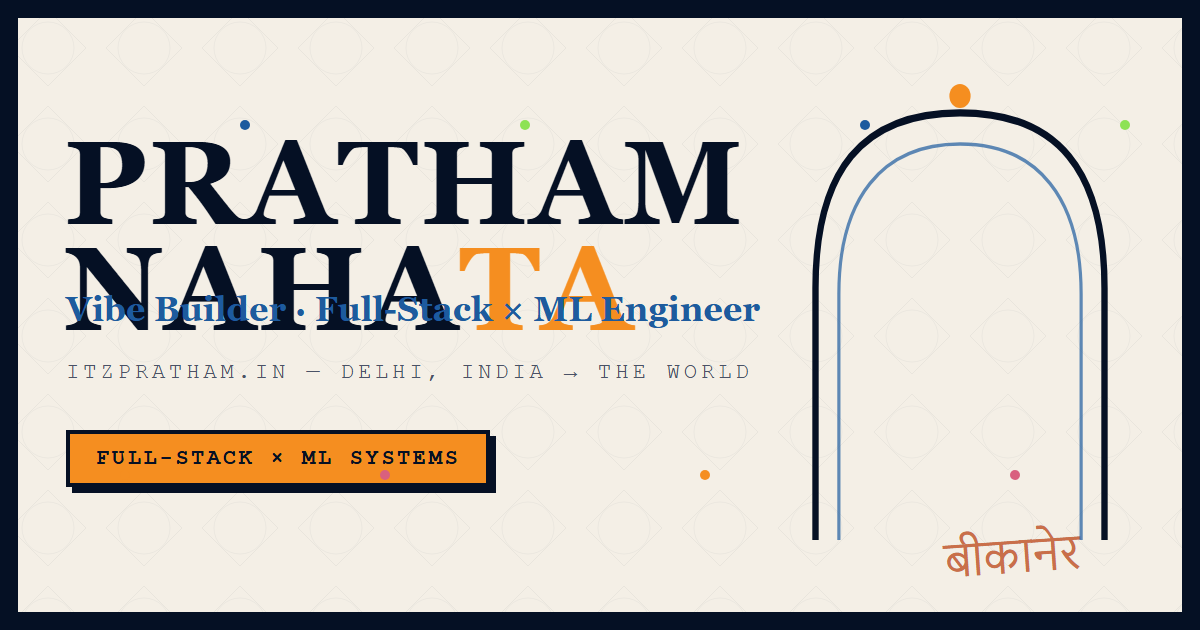
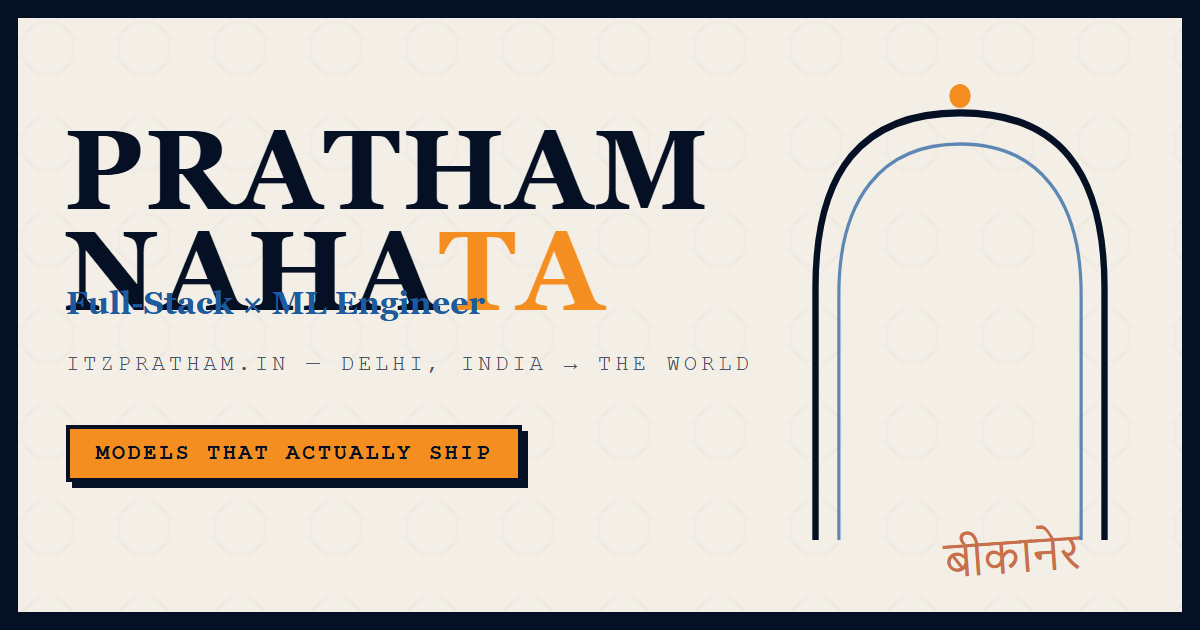
feat(wave12): strategic repositioning per critique — engineering-first identity (drop Vibe Builder), narrative case structure (problem/approach/hard part/shipped), THE RECEIPTS evidence band, contextualized stats (achievement headline + scale), home capability band, og-image regenerated, vibe-langua

diff --git a/src/data/profile.ts b/src/data/profile.ts
@@ -1,4 +1,4 @@
-export type Stat = { value: number; prefix?: string; suffix?: string; label: string };
+export type Stat = { value: number; prefix?: string; suffix?: string; label: string; headline?: string };
 export type StackGroup = { name: string; pills: string[]; wide?: boolean; note?: string };
 
 export const profile: {
@@ -54,13 +54,14 @@ export const profile: {
     linkedin: "https://linkedin.com/in/iamprathamnahata",
     email: "mailto:iam1nahata@gmail.com",
   },
-  rota: ["Vibe Builder", "Full-Stack Engineer", "ML Systems Builder", "Product Designer"],
+  rota: ["Full-Stack × ML Engineer", "Inference Systems Builder", "Product Engineer", "Systems Builder"],
   deck:
-    "CS undergrad building full-stack + ML systems — real-time inference, graph neural networks, multi-agent AI. Interfaces that feel alive, models that actually ship.",
+    "CS undergrad building full-stack + ML systems — real-time inference, graph neural networks, multi-agent AI. Models that actually ship.",
   stats: [
-    { value: 492960, suffix: "+", label: "SIH 2024 grand finalist" },
-    { prefix: "TOP ", value: 5, label: "AlgoQuest · 300+ teams" },
-    { prefix: "<", value: 20, suffix: "ms", label: "browser ML inference" },
+    { value: 492960, suffix: "+", label: "SIH 2024 participants — national scale", headline: "GRAND FINALIST" },
+    { prefix: "TOP ", value: 5, label: "AlgoQuest · 300+ teams", headline: "TOP 5" },
+    { prefix: "<", value: 20, suffix: "ms", label: "browser ML inference — measured", headline: "<20MS" },
+    { value: 4, label: "production-shaped systems with receipts", headline: "4 SHIPPED" },
   ],
   facts: [
     { key: "FROM", value: "Delhi, India" },
@@ -77,34 +78,34 @@ export const profile: {
     },
   ],
   cards: [
-    { label: "01 / FEEL", title: "Vibe", body: "Does it feel right? Motion, tone, personality — the stuff people remember after they close the tab." },
+    { label: "01 / FEEL", title: "Feel", body: "Does it feel right? Motion, tone, personality — the stuff people remember after they close the tab." },
     { label: "02 / THINK", title: "Clarity", body: "Can a stranger understand it in 5 seconds? Hierarchy, plain words, zero guesswork." },
     { label: "03 / BUILD", title: "Craft", body: "Is it built right? Accessible, fast, reproducible — the invisible stuff that makes work last." },
   ],
   process: {
     title: "pratham@nahata — bash — 80×24",
     lines: [
-      { kind: "comment", text: "# shipping vibe-first systems since 2023" },
+      { kind: "comment", text: "# shipping production systems since 2023" },
       { kind: "cmd", text: "pratham --plan --stack fastapi nextjs pytorch", cursor: true },
       { kind: "step", num: "01 · DISCOVER", text: "unpack the problem — talk to real humans, find the actual pain" },
-      { kind: "step", num: "02 · DESIGN", text: "sketch the vibe — moodboards, type, motion language, lo-fi prototypes" },
-      { kind: "step", num: "03 · BUILD", text: "ship fast — semantic HTML, design tokens, motion done right" },
-      { kind: "step", num: "04 · POLISH", text: "measure & refine — micro-interactions, a11y, perf, make it feel expensive" },
-      { kind: "ok", text: "✓ done in 2 weeks, not 2 months — you keep the source, I keep the vibes" },
+      { kind: "step", num: "02 · DESIGN", text: "sketch the product — type, motion language, lo-fi prototypes" },
+      { kind: "step", num: "03 · BUILD", text: "ship fast — semantic HTML, design tokens, CI green" },
+      { kind: "step", num: "04 · POLISH", text: "measure & refine — micro-interactions, a11y, perf, make it hold up in production" },
+      { kind: "ok", text: "✓ done in 2 weeks, not 2 months — you keep the source, I keep shipping" },
     ],
     steps: [
       { num: "01", title: "DISCOVER", sub: "talk to real humans · find the pain", cmd: "pratham --plan", out: "unpack the problem — real users, real constraints, the actual pain underneath the ask", artifacts: ["USER INTERVIEWS", "PAIN MAP", "ONE-PAGE BRIEF"] },
-      { num: "02", title: "DESIGN", sub: "moodboards · type · motion language", cmd: "pratham --design", out: "sketch the vibe — moodboards, type scale, motion language, lo-fi prototypes you can click", artifacts: ["MOODBOARDS", "DESIGN TOKENS", "LO-FI PROTOTYPE"] },
+      { num: "02", title: "DESIGN", sub: "type · motion language · lo-fi", cmd: "pratham --design", out: "sketch the product — type scale, motion language, lo-fi prototypes you can click", artifacts: ["MOODBOARDS", "DESIGN TOKENS", "LO-FI PROTOTYPE"] },
       { num: "03", title: "BUILD", sub: "semantic HTML · tokens · fast", cmd: "pratham --build", out: "ship fast — semantic markup, tokens not chaos, CI-green, preview links every day", artifacts: ["COMPONENT LIBRARY", "CI GREEN", "DAILY PREVIEWS"] },
-      { num: "04", title: "POLISH", sub: "a11y · perf · feel expensive", cmd: "pratham --polish", out: "measure & refine — a11y pass, perf budget, micro-interactions until it feels expensive", artifacts: ["A11Y PASS", "PERF BUDGET", "SHIP LOG"] },
+      { num: "04", title: "POLISH", sub: "a11y · perf · production-ready", cmd: "pratham --polish", out: "measure & refine — a11y pass, perf budget, load tests until it holds up in production", artifacts: ["A11Y PASS", "PERF BUDGET", "SHIP LOG"] },
     ],
     stats: [
       { value: "4", label: "PHASES" },
       { value: "2WK", label: "AVG LOOP" },
       { value: "AA", label: "CONTRAST" },
-      { value: "100%", label: "VIBES" },
+      { value: "100%", label: "SHIPPED" },
     ],
-    tools: ["STACK — FastAPI · Next.js · PyTorch · ONNX · Supabase · Docker", "VIBES — motion-first · tokens · a11y · perf budgets"],
+    tools: ["STACK — FastAPI · Next.js · PyTorch · ONNX · Supabase · Docker", "CRAFT — motion-first · tokens · a11y · perf budgets"],
   },
   background: [
     { years: "2023—27", role: "B.Tech, Computer Science", co: "@ BVCOE Delhi", desc: "Systems, ML and the parts of engineering that ship. Where most of the 3am project ideas started.", tags: "DATA STRUCTURES · ML · SYSTEMS", status: "UNDERGRAD" },
@@ -196,6 +197,8 @@ export type CaseStudy = {
   blurb: string;
   challenge: string;
   build: string;
+  hard: string;
+  shipped: string;
   impact: string[];
   stack: string[];
   href: string;
@@ -208,7 +211,10 @@ export type CaseStudy = {
 };
 
 export const caseStudies: CaseStudy[] = [
-  { slug: "mindpulse-pro", index: "01", year: "2026", title: "MIND PULSE PRO", role: "Founder · Full-stack × ML", blurb: "Real-time behavioral stress detection that runs the model in the browser.", challenge: "Stress is invisible until it isn't. Mental-health tools rely on self-reporting, which people game or skip. I wanted a system that reads stress from how you already work — keystrokes and mouse dynamics — without a single wearable.", build: "Captured keystroke/mouse signals via pynput, extracted 50+ temporal features, trained XGBoost, exported to ONNX and ran inference directly in the browser with onnxruntime-web — no server round-trip. Wrapped in a Next.js web app plus a Tauri (Rust) desktop client, JWT + Google OAuth, SHAP explainability, fully offline LLM coaching via WebLLM.", impact: ["Under 20ms inference — zero server round-trip", "50+ temporal features per typing session", "SHAP explainability for every prediction", "Fully offline coaching — no API keys exposed"], stack: ["FastAPI", "Next.js", "XGBoost", "ONNX Runtime", "Tauri", "Supabase", "WebSockets", "WebLLM"], href: "https://github.com/iAMv1/mindpulse", art: "/assets/art-mindpulse.jpg", accent: "#8DE254", metrics: "20MS INFERENCE · 50+ FEATURES · TAURI DESKTOP",
+  { slug: "mindpulse-pro", index: "01", year: "2026", title: "MIND PULSE PRO", role: "Founder · Full-stack × ML", blurb: "Real-time behavioral stress detection that runs the model in the browser.", challenge: "Stress is invisible until it isn't. Mental-health tools rely on self-reporting, which people game or skip. I wanted a system that reads stress from how you already work — keystrokes and mouse dynamics — without a single wearable.", build: "Captured keystroke/mouse signals via pynput, extracted 50+ temporal features, trained XGBoost, exported to ONNX and ran inference directly in the browser with onnxruntime-web — no server round-trip. Wrapped in a Next.js web app plus a Tauri (Rust) desktop client, JWT + Google OAuth, SHAP explainability, fully offline LLM coaching via WebLLM.",
+    hard: "Getting inference under 20ms in the browser while keeping every prediction explainable - the model had to be small enough for the client, sharp enough to trust, and auditable end to end.",
+    shipped: "Browser inference with zero server round-trip, plus a Tauri desktop client and fully offline WebLLM coaching - the whole ML stack runs on the user's machine.",
+    impact: ["Under 20ms inference — zero server round-trip", "50+ temporal features per typing session", "SHAP explainability for every prediction", "Fully offline coaching — no API keys exposed"], stack: ["FastAPI", "Next.js", "XGBoost", "ONNX Runtime", "Tauri", "Supabase", "WebSockets", "WebLLM"], href: "https://github.com/iAMv1/mindpulse", art: "/assets/art-mindpulse.jpg", accent: "#8DE254", metrics: "20MS INFERENCE · 50+ FEATURES · TAURI DESKTOP",
     dive: [
       { q: "Why FastAPI + WebSockets?", a: "Stress scoring is realtime by nature — polling added ~900ms staleness. WebSockets pushed updates under 50ms, and FastAPI kept the whole backend in one typed codebase." },
       { q: "Why XGBoost instead of deep learning?", a: "We extract 50+ tabular features from keystroke/mouse dynamics. XGBoost matched the accuracy of a small NN at a tenth of the latency, and ONNX made it run in the browser." },
@@ -216,7 +222,10 @@ export const caseStudies: CaseStudy[] = [
       { q: "What would I do now?", a: "Distill to a smaller model, run federated feature extraction, and validate thresholds with a proper user study instead of my own typing." },
     ],
     live: "" },
-  { slug: "unified-dta", index: "02", year: "2025", title: "UNIFIED-DTA", role: "ML Researcher · Builder", blurb: "Drug-target affinity prediction fusing protein language models with graph networks.", challenge: "Predicting how well a drug binds a target protein is a core bottleneck in discovery. Sequence-only models miss molecular structure; structure-only models miss protein context. The field needed both, jointly.", build: "Fused Meta's ESM-2 protein language model with Graph Isomorphism Networks for joint molecular + protein representation learning. Trained on BindingDB, DAVIS and KIBA with concordance index and MSE. Containerized inference with Docker + FastAPI (LRU-cached), extended with a drug-generation module using the DoubleSG architecture.", impact: ["3 industry benchmarks: BindingDB · DAVIS · KIBA", "ESM-2 + GIN joint representation learning", "Dockerized, LRU-cached inference API", "Novel-compound generation via DoubleSG"], stack: ["PyTorch", "ESM-2", "GNN", "FastAPI", "RDKit", "Docker"], href: "https://github.com/iAMv1/unified-dta-project", art: "/assets/art-dta.jpg", accent: "#1D5B9E", metrics: "3 BENCHMARKS · ESM-2 + GIN · DOCKER",
+  { slug: "unified-dta", index: "02", year: "2025", title: "UNIFIED-DTA", role: "ML Researcher · Builder", blurb: "Drug-target affinity prediction fusing protein language models with graph networks.", challenge: "Predicting how well a drug binds a target protein is a core bottleneck in discovery. Sequence-only models miss molecular structure; structure-only models miss protein context. The field needed both, jointly.", build: "Fused Meta's ESM-2 protein language model with Graph Isomorphism Networks for joint molecular + protein representation learning. Trained on BindingDB, DAVIS and KIBA with concordance index and MSE. Containerized inference with Docker + FastAPI (LRU-cached), extended with a drug-generation module using the DoubleSG architecture.",
+    hard: "Fusing two very different representations - protein language embeddings and molecular graphs - without one drowning the other, then keeping training stable across mixed dtypes.",
+    shipped: "A Dockerized, LRU-cached inference API over three community-trusted benchmarks, plus a novel-compound generation module - reproducible end to end.",
+    impact: ["3 industry benchmarks: BindingDB · DAVIS · KIBA", "ESM-2 + GIN joint representation learning", "Dockerized, LRU-cached inference API", "Novel-compound generation via DoubleSG"], stack: ["PyTorch", "ESM-2", "GNN", "FastAPI", "RDKit", "Docker"], href: "https://github.com/iAMv1/unified-dta-project", art: "/assets/art-dta.jpg", accent: "#1D5B9E", metrics: "3 BENCHMARKS · ESM-2 + GIN · DOCKER",
     dive: [
       { q: "Why ESM-2 + GIN together?", a: "ESM-2 gives protein language context; GIN gives molecular structure. Either alone loses half the signal — the fusion is the actual contribution." },
       { q: "Why those benchmarks?", a: "BindingDB, DAVIS and KIBA are the three the community actually trusts. CI/MSE there is the only claim reviewers accept." },
@@ -225,7 +234,10 @@ export const caseStudies: CaseStudy[] = [
     ],
     live: "",
     readme: "iAMv1/unified-dta-project@HEAD/README.md" },
-  { slug: "sentinel", index: "03", year: "2025", title: "SENTINEL", role: "Co-builder · Multi-agent AI", blurb: "Privacy-first enterprise wellbeing analytics with a 3-agent AI orchestra.", challenge: "Burnout is a business risk HR can't see until it's expensive. Any solution had to be privacy-first — anonymized signals, not surveillance — and answer plain-language questions, not just dashboards.", build: "Co-built a FastAPI + React platform scoring burnout risk from anonymized interaction patterns, with a graph-based module for team-collaboration insight. Implemented a 3-agent orchestration system — burnout scoring, talent discovery, team health — enabling natural-language queries over workforce analytics.", impact: ["3 specialized AI agents in one system", "Graph analysis for team-collaboration insight", "Privacy-first: anonymized patterns only", "Natural-language queries over analytics"], stack: ["FastAPI", "React", "Graph Analytics", "Multi-Agent AI"], href: "https://github.com/iAMv1", art: "/assets/art-sentinel.jpg", accent: "#F58E20", metrics: "3-AGENT · GRAPH ANALYTICS · PRIVACY-FIRST",
+  { slug: "sentinel", index: "03", year: "2025", title: "SENTINEL", role: "Co-builder · Multi-agent AI", blurb: "Privacy-first enterprise wellbeing analytics with a 3-agent AI orchestra.", challenge: "Burnout is a business risk HR can't see until it's expensive. Any solution had to be privacy-first — anonymized signals, not surveillance — and answer plain-language questions, not just dashboards.", build: "Co-built a FastAPI + React platform scoring burnout risk from anonymized interaction patterns, with a graph-based module for team-collaboration insight. Implemented a 3-agent orchestration system — burnout scoring, talent discovery, team health — enabling natural-language queries over workforce analytics.",
+    hard: "Keeping natural-language queries over workforce analytics under a second - pre-aggregating graph features per team turned seconds of latency into ~300ms without losing nuance.",
+    shipped: "Three specialized agents (burnout, talent, team health) on anonymized signals only - plain-language answers over workforce analytics, privacy intact by architecture.",
+    impact: ["3 specialized AI agents in one system", "Graph analysis for team-collaboration insight", "Privacy-first: anonymized patterns only", "Natural-language queries over analytics"], stack: ["FastAPI", "React", "Graph Analytics", "Multi-Agent AI"], href: "https://github.com/iAMv1", art: "/assets/art-sentinel.jpg", accent: "#F58E20", metrics: "3-AGENT · GRAPH ANALYTICS · PRIVACY-FIRST",
     dive: [
       { q: "Why three agents?", a: "Burnout risk, talent discovery and team health are three different questions with different data shapes. One model would blur them; three specialists stay honest." },
       { q: "Why privacy-first from day one?", a: "Wellbeing analytics dies the moment it feels like surveillance. Anonymized patterns only — no names attached to scores." },
@@ -233,7 +245,10 @@ export const caseStudies: CaseStudy[] = [
       { q: "What would I do now?", a: "Add temporal decay to signals and a human-in-the-loop review queue before any score leaves the system." },
     ],
     live: "" },
-  { slug: "omnisectester", index: "04", year: "2026", title: "OMNISECTESTER", role: "Builder · Security tooling", blurb: "A nation-state-grade, defense-in-depth security testing framework in one CLI.", challenge: "Security testing is fragmented — a different tool for web, mobile, cloud, AI/LLM, hardware. Teams need one disciplined surface to audit everything from a single command line.", build: "Designed and shipped a defense-in-depth testing framework covering web apps, extensions, desktop, mobile, cloud, AI/LLM, hardware and supply chain — from one CLI. Built as a focused, extensible engine with per-surface adapters.", impact: ["7 attack surfaces, one CLI", "Defense-in-depth by design", "Supply-chain and AI/LLM coverage included"], stack: ["JavaScript", "CLI", "Security", "Automation"], href: "https://github.com/iAMv1/omnisectester", art: "/assets/art-omni.jpg", accent: "#C96F4A", metrics: "7 SURFACES · 1 CLI · DEFENSE-IN-DEPTH",
+  { slug: "omnisectester", index: "04", year: "2026", title: "OMNISECTESTER", role: "Builder · Security tooling", blurb: "A nation-state-grade, defense-in-depth security testing framework in one CLI.", challenge: "Security testing is fragmented — a different tool for web, mobile, cloud, AI/LLM, hardware. Teams need one disciplined surface to audit everything from a single command line.", build: "Designed and shipped a defense-in-depth testing framework covering web apps, extensions, desktop, mobile, cloud, AI/LLM, hardware and supply chain — from one CLI. Built as a focused, extensible engine with per-surface adapters.",
+    hard: "Seven attack surfaces, one disciplined CLI - the engine had to stay small while every adapter stayed independently shippable, so a single bad dependency could never poison the whole tool.",
+    shipped: "A defense-in-depth security framework covering 7 surfaces from a single command line, with per-surface adapters that update independently.",
+    impact: ["7 attack surfaces, one CLI", "Defense-in-depth by design", "Supply-chain and AI/LLM coverage included"], stack: ["JavaScript", "CLI", "Security", "Automation"], href: "https://github.com/iAMv1/omnisectester", art: "/assets/art-omni.jpg", accent: "#C96F4A", metrics: "7 SURFACES · 1 CLI · DEFENSE-IN-DEPTH",
     dive: [
       { q: "Why one CLI for seven surfaces?", a: "Security teams don't adopt seven tools; they adopt one workflow. A single disciplined entry point with per-surface adapters keeps the core tiny and the coverage honest." },
       { q: "Why defense-in-depth by design?", a: "Any single scanner is bypassable. Layered checks — network, app, supply chain, AI/LLM — mean a finding survives even when one layer is blind." },
@@ -264,7 +279,7 @@ export const timelineMachine = {
     { year: "2023", stage: "first repo, first doubts", building: "mini Python projects · a chatbot nobody asked for", learning: "CS50 — how computers actually work", identity: "confused but curious" },
     { year: "2024", stage: "hackathon blooded", building: "SIH prototype · GSSoC PRs · a stress-detection idea nobody liked yet", learning: "Web (CS50W) · ML specialization · FastAPI", identity: "builder with receipts" },
     { year: "2025", stage: "systems, not scripts", building: "Unified-DTA · Sentinel · production-shaped pipelines", learning: "GNNs · ESM-2 · multi-agent orchestration", identity: "engineer who designs" },
-    { year: "2026", stage: "products with a pulse", building: "MindPulse Pro v2 · OmniSecTester · this portfolio", learning: "ONNX in-browser · Tauri · motion craft", identity: "vibe builder · full-stack × ML" },
+    { year: "2026", stage: "products with a pulse", building: "MindPulse Pro v2 · OmniSecTester · this portfolio", learning: "ONNX in-browser · Tauri · motion craft", identity: "product engineer · full-stack × ML" },
     { year: "2027", stage: "whatever ships next", building: "the thing you're about to hire me to build", learning: "webgpu · distributed inference · better questions", identity: "still iterating" },
   ],
 };

diff --git a/src/app/work/[slug]/page.tsx b/src/app/work/[slug]/page.tsx
@@ -55,14 +55,14 @@ export default async function CaseStudyPage({ params }: { params: Promise<{ slug
           </header>
 
           {/* system flow — dark bridge into the body, full-bleed */}
-          <div className="border-b-2 border-ink bg-ink-2 py-8 text-paper">
+          <div id="system-flow" className="border-b-2 border-ink bg-ink-2 py-8 text-paper">
             <div className="px-[clamp(20px,4vw,40px)]">
               <p className="mb-4 font-mono text-xs tracking-[0.18em] text-paper/60">SYSTEM FLOW</p>
               <FlowDiagram slug={study.slug} />
             </div>
           </div>
 
-          {/* sections */}
+          {/* sections — narrative: problem → approach → hard part → shipped */}
           <div className="mt-10 grid gap-10 lg:grid-cols-2">
             <Reveal>
               <section>
@@ -75,11 +75,66 @@ export default async function CaseStudyPage({ params }: { params: Promise<{ slug
             </Reveal>
             <Reveal delay={0.08}>
               <section>
-                <h2 className="mb-3 font-display text-3xl font-semibold uppercase">HOW IT&apos;S BUILT</h2>
+                <h2 className="mb-3 font-display text-3xl font-semibold uppercase">MY APPROACH</h2>
                 <p className="border-t-2 border-ink pt-4 text-[16px] leading-relaxed">{study.build}</p>
               </section>
             </Reveal>
+            <Reveal delay={0.04}>
+              <section>
+                <h2 className="mb-3 font-display text-3xl font-semibold uppercase">
+                  THE HARD <span className="text-cobalt">PART</span>
+                </h2>
+                <p className="border-t-2 border-ink pt-4 text-[16px] leading-relaxed">{study.hard}</p>
+              </section>
+            </Reveal>
+            <Reveal delay={0.08}>
+              <section>
+                <h2 className="mb-3 font-display text-3xl font-semibold uppercase">
+                  WHAT <span className="text-cobalt">SHIPPED</span>
+                </h2>
+                <p className="border-t-2 border-ink pt-4 text-[16px] leading-relaxed">{study.shipped}</p>
+              </section>
+            </Reveal>
           </div>
+
+          {/* evidence — receipts, not claims */}
+          <Reveal className="mt-12">
+            <section className="border-2 border-ink bg-paper-2 p-[clamp(20px,3vw,32px)] shadow-hard">
+              <div className="flex flex-wrap items-baseline justify-between gap-3">
+                <h2 className="font-display text-2xl font-semibold uppercase">
+                  THE <span className="text-cobalt">RECEIPTS</span>
+                </h2>
+                <p className="font-mono text-[11px] tracking-widest text-muted-foreground">
+                  SOURCE · ARCHITECTURE · NUMBERS — NO CLAIMS WITHOUT EVIDENCE
+                </p>
+              </div>
+              <div className="mt-4 grid gap-px border-2 border-ink bg-ink sm:grid-cols-3">
+                <a
+                  href={study.href}
+                  target="_blank"
+                  rel="noopener noreferrer"
+                  className="group bg-paper-2 p-4 transition-colors hover:bg-paper"
+                >
+                  <p className="font-mono text-[10px] tracking-widest text-muted-foreground">SOURCE</p>
+                  <p className="mt-1 font-mono text-[13px] tracking-wide text-cobalt group-hover:underline">
+                    GITHUB REPO <span aria-hidden>↗</span>
+                  </p>
+                </a>
+                <a href="#system-flow" className="group bg-paper-2 p-4 transition-colors hover:bg-paper">
+                  <p className="font-mono text-[10px] tracking-widest text-muted-foreground">ARCHITECTURE</p>
+                  <p className="mt-1 font-mono text-[13px] tracking-wide text-cobalt group-hover:underline">
+                    SYSTEM FLOW <span aria-hidden>↓</span>
+                  </p>
+                </a>
+                <a href="#dive" className="group bg-paper-2 p-4 transition-colors hover:bg-paper">
+                  <p className="font-mono text-[10px] tracking-widest text-muted-foreground">WRITE-UP · BENCHMARKS</p>
+                  <p className="mt-1 font-mono text-[13px] tracking-wide text-cobalt group-hover:underline">
+                    DIVE DEEPER <span aria-hidden>↓</span>
+                  </p>
+                </a>
+              </div>
+            </section>
+          </Reveal>
 
           <Reveal>
             <section className="mt-12 border-2 border-ink bg-paper-2 p-[clamp(20px,3vw,36px)] shadow-hard">
@@ -125,7 +180,7 @@ export default async function CaseStudyPage({ params }: { params: Promise<{ slug
           {/* dive deeper — progressive information density */}
           {study.dive?.length > 0 && (
             <Reveal className="mt-12">
-              <section>
+              <section id="dive">
                 <h2 className="font-display text-3xl font-semibold uppercase">
                   DIVE <span className="text-cobalt">DEEPER</span>
                 </h2>

diff --git a/src/components/sections/hero.tsx b/src/components/sections/hero.tsx
@@ -59,7 +59,7 @@ export function Hero() {
       <Spotlight />
 
       <p className="relative z-10 font-mono text-[13px] tracking-widest text-muted-foreground">
-        PORTFOLIO ©2026 — DELHI, INDIA · बीकानेर VIBES
+        PORTFOLIO ©2026 — DELHI, INDIA · बीकानेर ORIGIN
       </p>
 
       <motion.h1
@@ -152,16 +152,17 @@ export function Hero() {
         </Link>
       </div>
 
-      <ul className="relative z-10 mt-8 flex flex-col gap-2 font-mono text-sm tracking-wider">
+      <ul className="relative z-10 mt-8 flex flex-col gap-3 font-mono text-sm tracking-wider">
         {profile.stats.map((s) => (
-          <li key={s.label}>
-            <CountUp
-              value={s.value}
-              prefix={s.prefix ?? ""}
-              suffix={s.suffix ?? ""}
-              className="text-lg font-medium text-red"
-            />{" "}
-            {s.label}
+          <li key={s.label} className="flex flex-col gap-0.5">
+            <span className="text-lg font-medium text-red">
+              {s.headline ? (
+                s.headline
+              ) : (
+                <CountUp value={s.value} prefix={s.prefix ?? ""} suffix={s.suffix ?? ""} />
+              )}
+            </span>
+            <span className="text-[12px] leading-snug text-muted-foreground">{s.label}</span>
           </li>
         ))}
       </ul>

diff --git a/src/app/page.tsx b/src/app/page.tsx
@@ -21,6 +21,23 @@ export default function Home() {
         <SkillsMarquee />
         <NameMarquee />
 
+        {/* engineering credibility — what I build, in one band */}
+        <section aria-label="Engineering capabilities" className="border-b-2 border-ink bg-paper">
+          <div className="mx-auto grid max-w-[1400px] gap-px bg-ink px-[clamp(20px,4vw,48px)] py-0 sm:grid-cols-2 lg:grid-cols-4">
+            {[
+              { k: "REAL-TIME INFERENCE", v: "ONNX in the browser — <20ms, zero server round-trip" },
+              { k: "GRAPH NEURAL NETWORKS", v: "ESM-2 + GIN fused for drug-target affinity" },
+              { k: "MULTI-AGENT SYSTEMS", v: "3-agent orchestration over workforce analytics" },
+              { k: "FULL-STACK PRODUCTS", v: "Next.js · FastAPI · Tauri · Supabase · Docker" },
+            ].map((c) => (
+              <div key={c.k} className="bg-paper px-4 py-5">
+                <p className="font-mono text-[11px] tracking-widest text-cobalt">{c.k}</p>
+                <p className="mt-1 font-mono text-[12.5px] leading-snug text-ink/70">{c.v}</p>
+              </div>
+            ))}
+          </div>
+        </section>
+
         {/* featured work → /work/[slug] */}
         <section id="featured" className="bg-jali scroll-mt-24 px-[clamp(20px,4vw,48px)] py-[clamp(64px,8vh,110px)]">
           <Reveal>

diff --git a/src/components/sections/process.tsx b/src/components/sections/process.tsx
@@ -137,7 +137,7 @@ export function Process() {
               <span className="ml-auto font-mono text-xs text-ink/70">{profile.process.title}</span>
             </div>
             <div className="flex flex-col gap-5 px-[clamp(20px,4vw,34px)] py-[clamp(20px,4vw,34px)] font-mono text-[clamp(12.5px,1.5vw,15px)] leading-[1.9]">
-              <p className="text-ink/60"># shipping vibe-first systems since 2023</p>
+              <p className="text-ink/60"># shipping production systems since 2023</p>
               <p className="text-ink/65"># काम में विश्वास — faith in the work</p>
               {profile.process.steps.map((s, i) => (
                 <div key={s.num} className="process-block">
@@ -157,7 +157,7 @@ export function Process() {
                   )}
                 </div>
               ))}
-              <p className="text-cobalt">✓ done in 2 weeks, not 2 months — you keep the source, I keep the vibes</p>
+              <p className="text-cobalt">✓ done in 2 weeks, not 2 months — you keep the source, I keep shipping</p>
             </div>
             <div className="flex items-center justify-between gap-4 border-t-2 border-ink px-4 py-2.5 font-mono text-[11px] text-ink/70">
               <span className="flex items-center gap-2 text-cobalt">

diff --git a/src/app/layout.tsx b/src/app/layout.tsx
@@ -31,7 +31,7 @@ const yatraOne = Yatra_One({
 
 export const metadata: Metadata = {
   title: {
-    default: "Pratham Nahata — Vibe Builder · Full-Stack & ML Engineer",
+    default: "Pratham Nahata — Full-Stack & ML Engineer",
     template: "%s — Pratham Nahata",
   },
   description:
@@ -42,14 +42,14 @@ export const metadata: Metadata = {
     type: "website",
     url: "https://itzpratham.in/",
     siteName: "Pratham Nahata — Portfolio",
-    title: "Pratham Nahata — Vibe Builder",
+    title: "Pratham Nahata — Full-Stack & ML Engineer",
     description:
       "Full-stack + ML systems that feel alive. CS undergrad, SIH 2024 grand finalist.",
-    images: [{ url: "/assets/og-image.png", width: 1200, height: 630, alt: "Pratham Nahata — Vibe Builder · Full-Stack × ML Engineer" }],
+    images: [{ url: "/assets/og-image.png", width: 1200, height: 630, alt: "Pratham Nahata — Full-Stack × ML Engineer" }],
   },
   twitter: {
     card: "summary_large_image",
-    title: "Pratham Nahata — Vibe Builder",
+    title: "Pratham Nahata — Full-Stack & ML Engineer",
     description: "Full-stack + ML systems that feel alive. CS undergrad, SIH 2024 grand finalist.",
     images: ["/assets/og-image.png"],
   },

diff --git a/src/app/process/page.tsx b/src/app/process/page.tsx
@@ -4,12 +4,12 @@ import { Tilt } from "@/components/motion/tilt";
 import { Process } from "@/components/sections/process";
 import { SiteShell } from "@/components/layout/site-shell";
 
-export const metadata: Metadata = { title: "Process — Pratham Nahata", description: "How I build: a live terminal session of the process — ship the vibe, prove everything, 2 weeks not 2 months, craft is invisible." };
+export const metadata: Metadata = { title: "Process — Pratham Nahata", description: "How I build: a live terminal session of the process — discover, design, build, polish. 2 weeks not 2 months, everything proven." };
 
 const PRINCIPLES = [
   {
     num: "01",
-    title: "SHIP THE VIBE",
+    title: "POLISH IS A FEATURE",
     body: "Motion, tone and personality are features. If it doesn't feel right, it isn't done.",
     why: "A portfolio that feels alive beats one that's merely correct — the same way a product that feels right gets used. Every animation here is a working demo of this principle: if the reveal stutters, the page has failed its own pitch.",
   },

diff --git a/e2e/wave7.spec.ts b/e2e/wave7.spec.ts
@@ -66,7 +66,7 @@ test("unresolved section descends into what i dont know", async ({ page }) => {
 
 test("case page dive descends four layers deep", async ({ page }) => {
   await page.goto(`${BASE}/work/mindpulse-pro?noloader=1`, { waitUntil: "networkidle" });
-  await expect(page.getByText("DIVE DEEPER")).toBeVisible();
+  await expect(page.getByRole("heading", { name: /DIVE DEEPER/ })).toBeVisible();
   await page.getByText("Why FastAPI + WebSockets?").first().click();
   await expect(page.getByText(/polling added ~900ms staleness/)).toBeVisible();
   await page.getByText("What went wrong?").first().click();

diff --git a/src/app/about/page.tsx b/src/app/about/page.tsx
@@ -59,7 +59,7 @@ export default function AboutPage() {
                 pulse, and work you can verify — every claim on this site links to a real repo.
               </p>
               <AnnotationCard label="brand · promise" rotate={-2}>
-                builds that feel alive — nothing shipped without a vibe
+                builds systems that actually ship — nothing leaves without receipts
               </AnnotationCard>
             </Reveal>
             <Reveal delay={0.1}>

diff --git a/src/components/sections/vibe.tsx b/src/components/sections/vibe.tsx
@@ -13,7 +13,7 @@ export function Vibe() {
       <div className="relative z-10">
         <Reveal>
           <p className="mb-4 inline-block border border-ink bg-saffron px-3 py-1.5 font-mono text-xs tracking-[0.12em] shadow-[3px_3px_0_0_var(--shadow-ink)]">
-            01 · THE VIBE
+            01 · THE CRAFT
           </p>
           <h2 className="font-display text-[clamp(3.2rem,9vw,8rem)] font-semibold uppercase leading-[0.86]">
             WHAT I

diff --git a/src/components/layout/preloader.tsx b/src/components/layout/preloader.tsx
@@ -86,7 +86,7 @@ export function Preloader() {
       <div className="h-2 w-[min(360px,60vw)] border border-paper/30 bg-paper/10">
         <span ref={fillRef} className="block h-full origin-left scale-x-0 bg-cobalt" />
       </div>
-      <p className="font-mono text-xs tracking-[0.22em] text-paper/55">LOADING THE VIBES…</p>
+      <p className="font-mono text-xs tracking-[0.22em] text-paper/55">LOADING THE GOODS…</p>
     </div>
   );
 }
